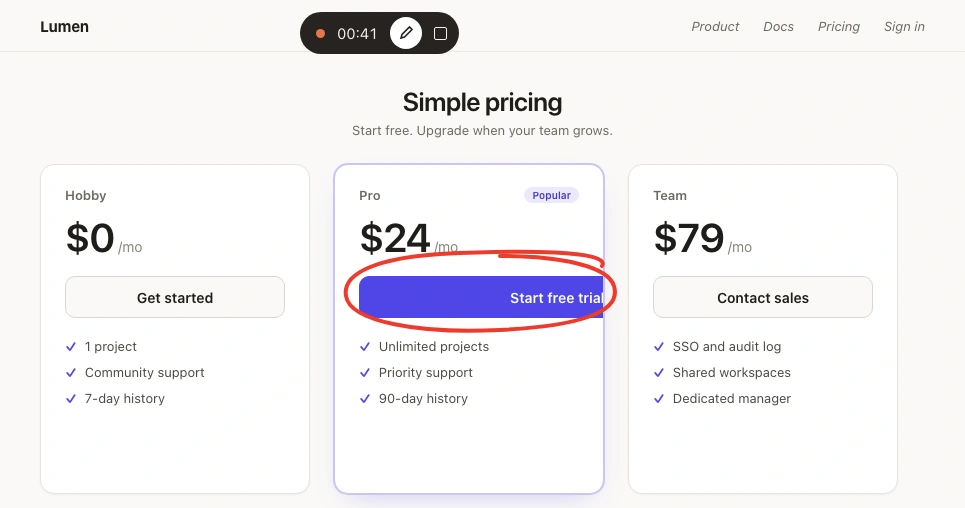
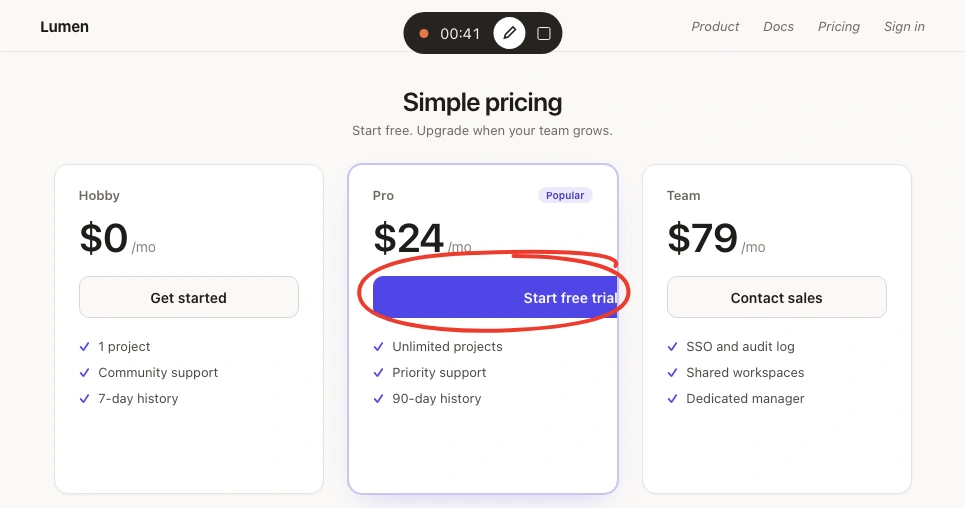
fix(site): centre the recorder capsule in the Annotate take; keep the take sources and a centring check

diff --git a/site/scripts/takes/mock-d.html b/site/scripts/takes/mock-d.html
@@ -1,0 +1,37 @@
+<!doctype html><meta charset=utf-8><style>
+@font-face{font-family:Geist;src:url("file:///Users/kelechiodom/.capy/worktrees/jam_01M7JBWG8F47KPFKP53TWCNQ51/dictate/site/src/assets/fonts/geist-latin.woff2");font-weight:100 900}
+*{box-sizing:border-box;margin:0}
+html,body{width:965px;height:508px;overflow:hidden;font-family:Geist,system-ui,sans-serif;background:#faf9f7;color:#1f1d1a;-webkit-font-smoothing:antialiased}
+.nav{display:flex;align-items:center;justify-content:space-between;height:52px;padding:0 40px;border-bottom:1px solid #ebe8e3;font-size:13px;color:#6d6860;}
+.nav b{color:#1f1d1a;font-size:15px;letter-spacing:-.01em}.nav span{display:flex;gap:24px}
+h1{text-align:center;font-size:26px;letter-spacing:-.025em;font-weight:600;margin-top:34px;}
+.sub{text-align:center;font-size:13px;color:#6d6860;margin-top:6px;}
+.cards{display:flex;gap:24px;padding:0 40px;justify-content:center;margin-top:26px;}
+.card{flex:0 0 270px;height:330px;background:#fff;border:1px solid #e7e3dd;border-radius:14px;padding:22px 24px;overflow:hidden;box-shadow:0 1px 2px rgba(31,29,26,.04)}
+.card.pro{border-color:#c9c4f5;box-shadow:0 0 0 1px #c9c4f5,0 12px 30px -16px rgba(79,70,229,.35)}
+.plan{font-size:13px;font-weight:600;color:#6d6860;display:flex;justify-content:space-between}
+.tag{font-size:10px;background:#eceafd;color:#4338ca;border-radius:999px;padding:2px 8px;font-weight:600}
+.price{font-size:40px;font-weight:600;letter-spacing:-.03em;margin:10px 0 16px}.price small{font-size:14px;color:#8a847b;font-weight:400;letter-spacing:0}
+.btn{display:flex;align-items:center;justify-content:center;gap:6px;height:42px;border-radius:10px;font-size:14px;font-weight:600;white-space:nowrap;border:1px solid #dcd7cf;background:#faf9f7;width:100%}
+.pro .btn{background:#4f46e5;border-color:#4f46e5;color:#fff;width:360px;justify-content:flex-start;padding-left:150px}
+ul{list-style:none;padding:0;margin-top:20px;font-size:13px;color:#4d4943;display:grid;gap:10px}
+li::before{content:"✓";color:#4f46e5;margin-right:8px;font-weight:700}
+.pill{position:absolute;left:50%;translate:-50% 0;top:12px;display:flex;align-items:center;gap:12px;height:42px;padding:0 12px 0 16px;border-radius:999px;background:#262320;color:#f4f1ec;font-size:15px;font-variant-numeric:tabular-nums;z-index:3}
+.pill i{width:9px;height:9px;border-radius:50%;background:#e8764b}
+.pill u{width:32px;height:32px;border-radius:50%;background:#fff;display:grid;place-items:center;text-decoration:none}
+.pill em{width:13px;height:13px;border:1.5px solid #f4f1ec;border-radius:2px}
+svg.ink{position:absolute;inset:0;width:100%;height:100%;display:none;z-index:2}body.ink svg.ink{display:block}
+</style>
+<body class="MODE">
+<div class=nav><b>Lumen</b><span><i>Product</i><i>Docs</i><i>Pricing</i><i>Sign in</i></span></div>
+<h1>Simple pricing</h1><p class=sub>Start free. Upgrade when your team grows.</p>
+<div class=pill><i></i><span class=t>00:00</span><u><svg width=16 height=16 viewBox="0 0 16 16" fill=none stroke="#262320" stroke-width=1.6><path d="M3 13l1-3.5L11.5 2 14 4.5 6.5 12z"/></svg></u><em></em></div>
+<div class=cards>
+<div class=card><div class=plan>Hobby</div><div class=price>$0<small> /mo</small></div><div class=btn>Get started</div><ul><li>1 project<li>Community support<li>7-day history</ul></div>
+<div class="card pro"><div class=plan>Pro <span class=tag>Popular</span></div><div class=price>$24<small> /mo</small></div><div class=btn>Start free trial →</div><ul><li>Unlimited projects<li>Priority support<li>90-day history</ul></div>
+<div class=card><div class=plan>Team</div><div class=price>$79<small> /mo</small></div><div class=btn>Contact sales</div><ul><li>SSO and audit log<li>Shared workspaces<li>Dedicated manager</ul></div>
+</div>
+<svg class=ink viewBox="0 0 965 508" fill=none stroke="#ee3b2e" stroke-width=4 stroke-linecap=round stroke-linejoin=round>
+<path transform="translate(13.5 0)" d="M602 266C612 250 520 250 440 254C380 258 342 272 346 296C350 322 420 334 500 330C580 326 622 312 614 286C608 266 560 256 500 256"/>
+</svg>
+</body>

diff --git a/site/scripts/takes/mock-m.html b/site/scripts/takes/mock-m.html
@@ -1,0 +1,37 @@
+<!doctype html><meta charset=utf-8><style>
+@font-face{font-family:Geist;src:url("file:///Users/kelechiodom/.capy/worktrees/jam_01M7JBWG8F47KPFKP53TWCNQ51/dictate/site/src/assets/fonts/geist-latin.woff2");font-weight:100 900}
+*{box-sizing:border-box;margin:0}
+html,body{width:315px;height:280px;overflow:hidden;font-family:Geist,system-ui,sans-serif;background:#faf9f7;color:#1f1d1a;-webkit-font-smoothing:antialiased}
+.nav{display:flex;align-items:center;justify-content:space-between;height:0px;padding:0 40px;border-bottom:1px solid #ebe8e3;font-size:13px;color:#6d6860;display:none}
+.nav b{color:#1f1d1a;font-size:15px;letter-spacing:-.01em}.nav span{display:flex;gap:24px}
+h1{text-align:center;font-size:13px;letter-spacing:-.025em;font-weight:600;margin-top:38px;display:none}
+.sub{text-align:center;font-size:13px;color:#6d6860;margin-top:6px;display:none}
+.cards{display:flex;gap:24px;padding:0 40px;margin-top:0px;position:absolute;left:0;top:40px;padding:0 0 0 ;gap:0;width:315px;justify-content:center}
+.card{flex:0 0 188px;height:150px;background:#fff;border:1px solid #e7e3dd;border-radius:14px;padding:12px 14px;overflow:hidden;box-shadow:0 1px 2px rgba(31,29,26,.04)}
+.card.pro{border-color:#c9c4f5;box-shadow:0 0 0 1px #c9c4f5,0 12px 30px -16px rgba(79,70,229,.35)}
+.plan{font-size:10px;font-weight:600;color:#6d6860;display:flex;justify-content:space-between}
+.tag{font-size:8px;background:#eceafd;color:#4338ca;border-radius:999px;padding:2px 8px;font-weight:600}
+.price{font-size:24px;font-weight:600;letter-spacing:-.03em;margin:6px 0 8px}.price small{font-size:10px;color:#8a847b;font-weight:400;letter-spacing:0}
+.btn{display:flex;align-items:center;justify-content:center;gap:6px;height:28px;border-radius:10px;font-size:11px;font-weight:600;white-space:nowrap;border:1px solid #dcd7cf;background:#faf9f7;width:100%}
+.pro .btn{background:#4f46e5;border-color:#4f46e5;color:#fff;width:250px;justify-content:flex-start;padding-left:88px}
+ul{list-style:none;padding:0;margin-top:8px;font-size:0px;color:#4d4943;display:grid;gap:10px}
+li::before{content:"✓";color:#4f46e5;margin-right:8px;font-weight:700}
+.pill{position:absolute;left:50%;translate:-50% 0;top:8px;display:flex;align-items:center;gap:7px;height:24px;padding:0 8px 0 10px;border-radius:999px;background:#262320;color:#f4f1ec;font-size:10px;font-variant-numeric:tabular-nums;z-index:3}
+.pill i{width:6px;height:6px;border-radius:50%;background:#e8764b}
+.pill u{width:17px;height:17px;border-radius:50%;background:#fff;display:grid;place-items:center;text-decoration:none}
+.pill em{width:7px;height:7px;border:1.5px solid #f4f1ec;border-radius:2px}
+svg.ink{position:absolute;inset:0;width:100%;height:100%;display:none;z-index:2}body.ink svg.ink{display:block}
+</style>
+<body class="MODE">
+<div class=nav><b>Lumen</b><span><i>Product</i><i>Docs</i><i>Pricing</i><i>Sign in</i></span></div>
+<h1>Simple pricing</h1><p class=sub>Start free. Upgrade when your team grows.</p>
+<div class=pill><i></i><span class=t>00:00</span><u><svg width=9 height=9 viewBox="0 0 16 16" fill=none stroke="#262320" stroke-width=1.6><path d="M3 13l1-3.5L11.5 2 14 4.5 6.5 12z"/></svg></u><em></em></div>
+<div class=cards>
+
+<div class="card pro"><div class=plan>Pro <span class=tag>Popular</span></div><div class=price>$24<small> /mo</small></div><div class=btn>Start free trial →</div><ul><li>Unlimited projects<li>Priority support<li>90-day history</ul></div>
+
+</div>
+<svg class=ink viewBox="0 0 315 280" fill=none stroke="#ee3b2e" stroke-width=2.5 stroke-linecap=round stroke-linejoin=round>
+<path d="M262 112C270 96 200 92 150 98C100 104 70 114 72 126C74 142 130 150 190 146C245 142 270 130 262 114C258 104 230 98 200 97"/>
+</svg>
+</body>
